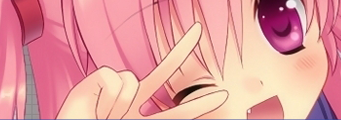
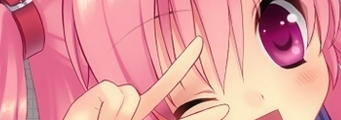
Update projects page images

diff --git a/_sass/_layout.scss b/_sass/_layout.scss
@@ -154,7 +154,6 @@
     img {
         width: 100%;
         border-radius: 0px;
-        border: 2px solid $grey-super-light;
     }
 
     &:hover {

diff --git a/projects.md b/projects.md
@@ -65,7 +65,7 @@ permalink: /projects/
         <div class="project-entry">
             <a href="/projects/vhdl/"><img src="/images/altera-preview.png" title="VHDL Controllers for Altera" alt="VHDL Controllers for Altera"/></a>
             <div class="project-desc">
-                <h2><a href="/projects/vhdl/">VHDL Controllers for Altera</a></h2>
+                <h2><a href="/projects/vhdl/">VHDL Controllers for Altera Board</a></h2>
                 <p>Simple VHDL controllers for the Altera DE2 board for a course project.</p>
                 <a href="/projects/vhdl/" class="more">Read more...</a>
             </div>
@@ -85,7 +85,7 @@ permalink: /projects/
 
     <div class="col-md-4">
         <div class="project-entry">
-            <a href="/projects/daq/"><img src="/images/daq-preview.png" title="Rocketry DAQ" alt="Rocketry DAQ"/></a>
+            <a href="/projects/daq/"><img src="/images/daq-preview.png" title="Rocketry DAQ" alt="Rocketry DAQ" style="border: 1px solid #EEEEEE;"/></a>
             <div class="project-desc">
                 <h2><a href="/projects/daq/">Rocketry Data Acquisition</a></h2>
                 <p>A National Instruments LabVIEW utility used for engine tests by the Waterloo Rocketry Team.</p>
